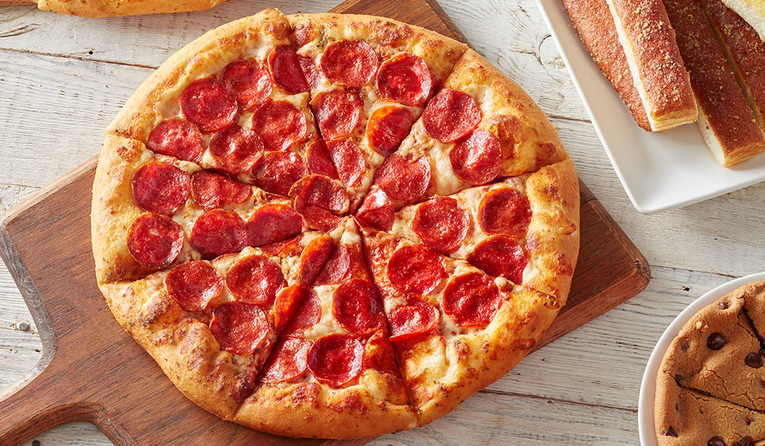
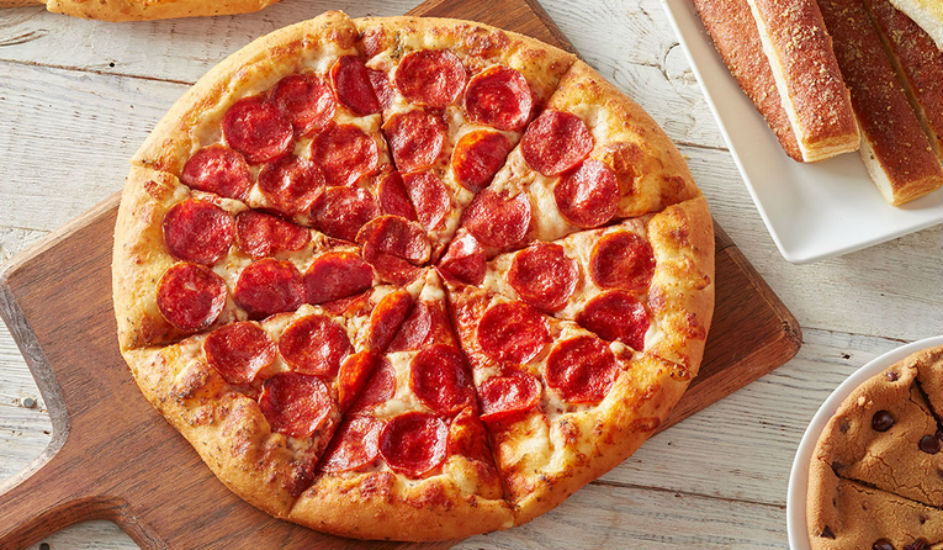
added css styles to carousel

diff --git a/app/assets/stylesheets/master.scss b/app/assets/stylesheets/master.scss
@@ -36,6 +36,7 @@ blockquote p{
   color: #CD1821;
   font-family: 'chunkfive_printregular', sans-serif;
   font-size: 26px;
+  margin-bottom: 0;
 }
 
 .booyah-box{
@@ -59,6 +60,32 @@ blockquote p{
 
 .clear{
   clear: both;
+}
+
+.carousel-inner > .carousel-item > img, .carousel-inner > .carousel-item > a > img{
+  max-height: 550px;
+  width: 100%;
+}
+
+.carousel-item.active, 
+.carousel-item-next, 
+.carousel-item-prev {
+  display: block;
+}
+
+.carousel-caption {
+  font-family: 'Helvetica Neue', Helvetica, sans-serif;
+  font-size: 60px;
+  font-weight: 100;
+  text-shadow: rgba(0, 0, 0, 0.95) 2px 2px;
+  background-color: rgba(0, 0, 0, 0.5);
+  width: 100%;
+  position: absolute;
+  left: 0;
+}
+
+.carousel {
+  box-shadow: 0px 3px 8px #2a2a2a;
 }
 
 #map{
